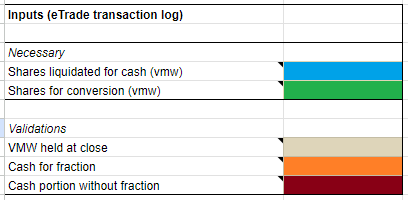
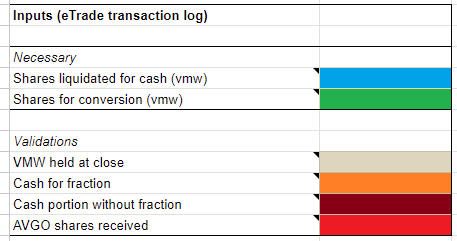
Add steps for getting total vmw held over merger
Updates the colour coding for the validation inputs.

diff --git a/usage.md b/usage.md
@@ -22,10 +22,18 @@ Keep these for your records and back them up somewhere. They are THE definitive 
 
 If you sold AVGO post-merger in 2023, you'll likely need to use the tradesdownload.csv to populate the worksheet `Share amounts from eTrade` column
 
+### eTrade total VMW share ownership
+
+We want the total number of shares you owned over the merger as a validation input. You may already have this value from elsewhere, but if not you can get it through [`Stock Plan->My Account->Gains & Losses`](https://us.etrade.com/etx/sp/stockplan#/myAccount/gainsLosses).
+
+Filter the view to show all VMW shares held on the date of the merger, and remember to hit apply. The total, circuled in brown, should be a whole number.
+
+![screenshot showing gain/loss view filtered to vmw owned over the merger](assets/etrade-gains-loss-filtered-totalvmw-highlighted.png)
+
 
 ### eTrade transaction log
 
-Use [the eTrade transaction log](https://us.etrade.com/e/t/accounts/txnhistory) (filter for entries relating to acquisition, propably between 2023-11-21 and 2023-12-09) to retrieve. You can also download a CSV using the tiny download icon in the top right:
+Use [the eTrade transaction log](https://us.etrade.com/e/t/accounts/txnhistory) (filter for entries relating to acquisition, propably between 2023-11-21 and 2023-12-09) to retrieve the following. You can also download a CSV using the tiny download icon in the top right:
 * VMW shares converted to AVGO (green)
 * VMW shares exchanged for cash (blue)
 * total cash consideration recieved (dark red)
@@ -37,7 +45,7 @@ Use [the eTrade transaction log](https://us.etrade.com/e/t/accounts/txnhistory) 
 
 These values should be entered into the worksheet Input section on the `Summary` sheet. The VMW shares exchange for XXX are used to determine the specific conversion ratio that applied to you, which is used to calculate the per-lot quantities for cash and AVGO.
 
-The other values are used for validation as, with just the ratio and the number of shares for each lot, we expect the numbers to match up.
+The other values are used for validation as, with just the ratio and the number of shares for each lot, we expect the numbers to match up. The `VMW held at close` is expected to be the sum of the shares converted to AVGO and the shares exchanged for cash. This value was retrieved [in an earlier step](#etrade-total-vmw-share-ownership).
 
 ![Colour coded Input section for worksheet](assets/sheet-summary-colour-coded-inputs.png)
 
@@ -45,15 +53,16 @@ The other values are used for validation as, with just the ratio and the number 
 
 ### eTrade Benefit History spreadsheet
 
-The benefit history spreadsheet is the richest document I've found regarding having all the data in one place. However that also makes it rather opaque to use.
-Download it so you've got it for future reference and in case the approaches detailed in other sections runs into absent data issues.
+Go to [`Stock Plan->My Account->Benefit History`](https://us.etrade.com/etx/sp/stockplan#/myAccount/benefitHistory) and download the spreadsheet.
+
+The benefit history spreadsheet is the richest document I've found regarding having all the data in one place. However that also makes it rather opaque to use. Download it so you've got it for future reference and in case the approaches detailed in other sections runs into absent data issues.
 
 ![screenshot highlighting benefit history spreadsheet download](assets/etrade-benefit-history-spreadsheet-download-highlighted.png)
 
 
 ### eTrade per-lot AVGO quantities
 
-Go to etrade `Stock Plan->My Account->Benefit History` and look at the `OSPS` section:
+Go to etrade [`Stock Plan->My Account->Benefit History`](https://us.etrade.com/etx/sp/stockplan#/myAccount/benefitHistory) and look at the `OSPS` section:
 * for each lot, take the `Acquired Qty.` (orange) and add it into the worksheet (details below)
 * the `Total Acquired Qty.` (red) should match the number of AVGO you received in the transaction log and entered into
 

diff --git a/README.md b/README.md
@@ -53,7 +53,7 @@ This entails:
 1. entering number of VMW shares and:
    1. RSUs - many vest dates are already populated, but you may need to add `Market Value Per Share` if yours is absent
    1. ESPP - almost everyone has the same offering periods, so only `Current Contributions` from the confirmations and your initial `Previous Carry Forward` value are needed
-1. details from eTrade transaction log
+1. details from eTrade transaction log - [instructions](usage.md#etrade-transaction-log)
    1. Shares (exchange for cash)
    1. Shares (tender payment)
 
